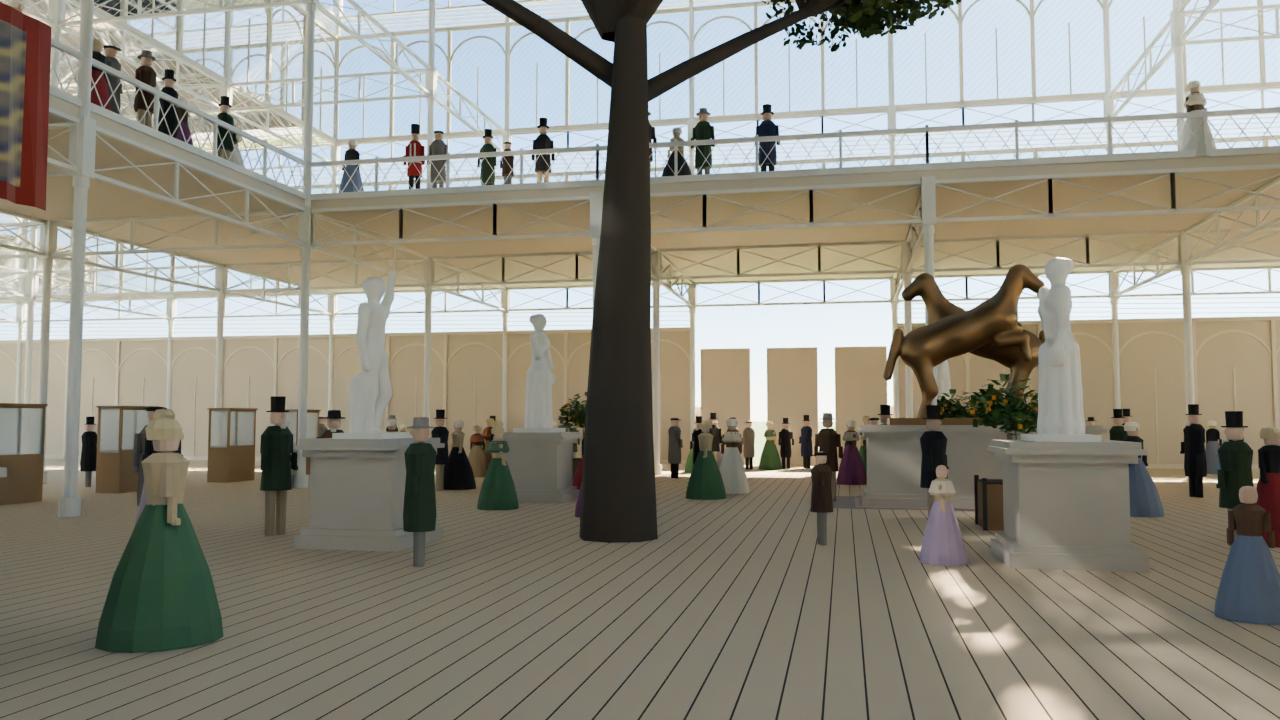
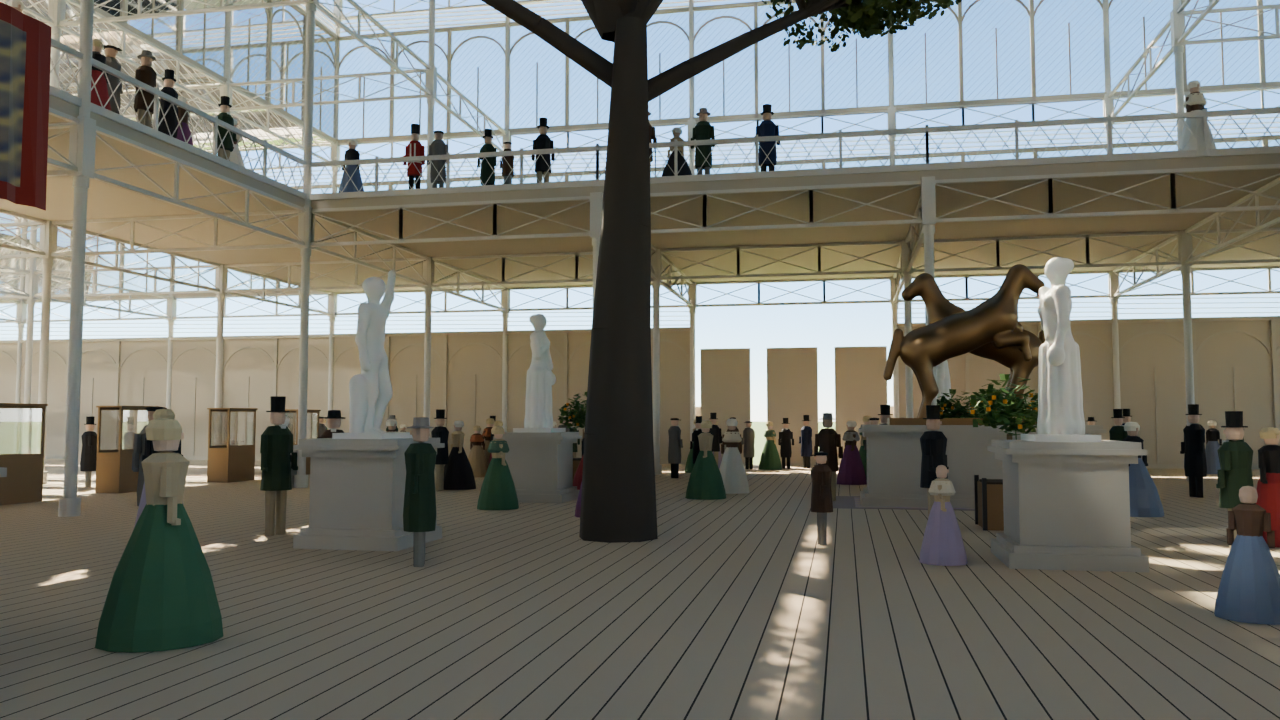
look v1: shared crystal-palace-look grade on hero cams

diff --git a/course-models/crystal-palace-1851-transept-grok/scripts/render_views.py b/course-models/crystal-palace-1851-transept-grok/scripts/render_views.py
@@ -1,6 +1,14 @@
 """Render named cameras from a transept .blend.
 blender -b rounds/rNN.blend -P render_views.py -- --cams A,B --outdir renders/rNN --res 960x540 --samples 48 [--portrait A] [--claude path.blend [--no-furrow]]"""
 import bpy, sys, os
+
+# crystal-palace-look v1 (shared grade)
+try:
+    from cpl_look import apply_look, era_for_scene, tod_for_scene
+except ImportError:
+    import sys as _s
+    _s.path.insert(0, "/workspace/crystal-palace-survey/look")
+    from crystal_palace_look import apply_look, era_for_scene, tod_for_scene
 argv = sys.argv[sys.argv.index("--") + 1:]
 def arg(n, d=None): return argv[argv.index(n) + 1] if n in argv else d
 cams = arg("--cams").split(","); outdir = arg("--outdir"); W, H = map(int, arg("--res", "960x540").split("x"))
@@ -51,6 +59,10 @@ if claude:   # append Claude's model collection read-only (never saved)
     if "--no-furrow" not in argv:   # RL05: flat roof units (his and ours) -> Muse's furrow bay, instanced, render time only
         sys.path.insert(0, os.path.dirname(os.path.abspath(__file__)))
         import furrow; furrow.swap_flat_roofs()
+# apply shared look once per blend (override with --era / --tod)
+_era = arg("--era", "1851"); _tod = arg("--tod", "interior_daylit")
+apply_look(era=_era, time_of_day=_tod)
+if arg("--exposure"): sc.view_settings.exposure = float(arg("--exposure"))
 os.makedirs(outdir, exist_ok=True)
 for c in cams:
     cam = bpy.data.objects.get(c)

diff --git a/course-models/crystal-palace-1851-transept-grok/scripts/cpl_look.py b/course-models/crystal-palace-1851-transept-grok/scripts/cpl_look.py
@@ -1,0 +1,16 @@
+"""Import crystal-palace-look v1 from the shared survey copy.
+
+Usage in a render script:
+
+    from cpl_look import apply_look, era_for_scene, tod_for_scene
+    apply_look(era=era_for_scene("CP017"), time_of_day=tod_for_scene("CP017", cam_name))
+"""
+import sys
+from pathlib import Path
+_CPL = Path("/workspace/crystal-palace-survey/look")
+if str(_CPL) not in sys.path:
+    sys.path.insert(0, str(_CPL))
+from crystal_palace_look import (  # noqa: E402
+    LOOK_VERSION, apply_look, era_for_scene, tod_for_scene,
+    clamp_materials, EXPOSURE, ERA_SUN_RGB, SUN,
+)

diff --git a/course-models/crystal-palace-1851-transept-grok/DEPARTURES.md b/course-models/crystal-palace-1851-transept-grok/DEPARTURES.md
@@ -90,3 +90,6 @@ This lists every simplification or guess in `scripts/build_transept.py`. Status 
 | T42 | C | Floor board albedo −10% → (0.495, 0.414, 0.315) | Boards were washing out under AgX; darken to hold gallery figures. |
 | T43 | B | Figure heads with nose/jaw; bent elbows, forearms, hand balls | Stub arms and smooth egg heads read as unfinished at 50 mm; still low-poly stand-ins. |
 | T44 | C | Gallery crowd 110+40+30 (was 76+26+18) | Galleries looked empty against floor density 540. |
+
+## Look — crystal-palace-look v1 (2026-10-27)
+Shared grade from `/workspace/crystal-palace-survey/look/` (AgX Medium High Contrast, Nishita-family MULTIPLE_SCATTERING sky + haze, era white-balance, mid-grey exposure table, glass/white-iron albedo ceilings). Render scripts import via `cpl_look.py` and call `apply_look` before rendering. Hero tiles re-rendered lean (24 spp, 1280×720). See `look/README.md` for Sydenham adoption.

diff --git a/course-models/crystal-palace-1851-transept-grok/PROGRESS.md b/course-models/crystal-palace-1851-transept-grok/PROGRESS.md
@@ -138,3 +138,7 @@ Branch `grok-transept-1851` (local only, nothing pushed). Blender 5.1.2 at /work
 - Build: `rounds/r11.blend`. Checks: `checks/r11` 49/49.
 - Dressing: floor crowd 540, gallery 180 (110+40+30).
 - Lean renders: `renders/r11` (1280×720, 24 spp) — DET_fountain, OPEN_gallery, CP023_into_nave, CP017_park_inside.
+
+## look-v1 (2026-10-27)
+- Wired `scripts/cpl_look.py` → shared `crystal-palace-survey/look/crystal_palace_look.py`.
+- `apply_look` in render script; lean re-render of COVERAGE hero cams.
